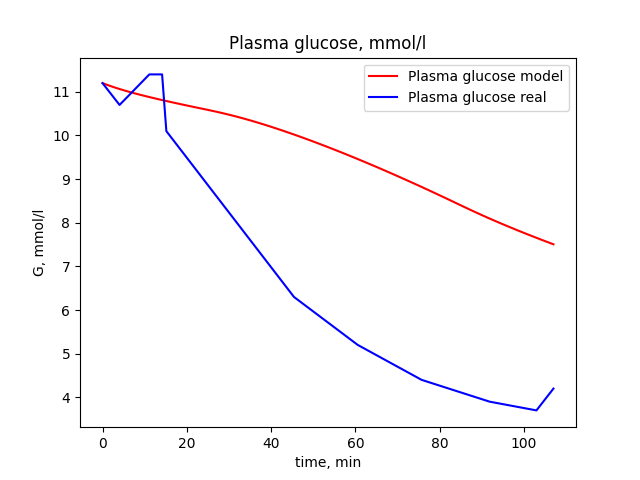
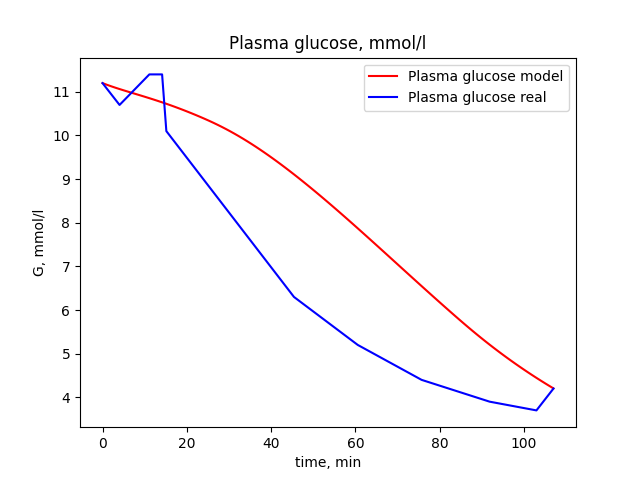
New results

diff --git a/functions.py b/functions.py
@@ -2,9 +2,12 @@
 # -*- coding: utf-8 -*-
 import os
 import numpy as np
+import math
 
 from coefficients import *
 from scipy.integrate import quad
+from sklearn.metrics import mean_absolute_error, mean_absolute_percentage_error
+
 import matplotlib.pyplot as plt
 
 '''Функции'''
@@ -78,9 +81,9 @@ def Qsto(t, Qsto1, Qsto2):
     return Qsto1 + Qsto2
 
 # Динамический параметр опустошения желудка
-def kempt(t, Qsto1, Qsto2, D, meal_time):
+def kempt(t, Qsto1, Qsto2, D, meal_time, alphas, betas):
     if D != 0 and t > meal_time:
-        return kmin + (kmax - kmin) / 2.0 * (tanh(alphas * (Qsto(t, Qsto1, Qsto2) - b * D)) - tanh(betas * (Qsto(t, Qsto1, Qsto2) - d * D)) + 2.0)
+        return kmin + (kmax - kmin) / 2.0 * (math.tanh(alphas * (Qsto(t, Qsto1, Qsto2) - b * D)) - math.tanh(betas * (Qsto(t, Qsto1, Qsto2) - d * D)) + 2.0)
     else:
         return kmin
 
@@ -131,6 +134,14 @@ def print_graphs(x, t, name ,real=None):
         real_data = np.array([])
         for val in real:
             real_data = np.append(real_data, float(val))
+
+
+        # calculate MSE
+        mse = mean_absolute_error(real_data / MG_DL_TO_MMOL_L_CONVENTION_FACTOR, Gres / MG_DL_TO_MMOL_L_CONVENTION_FACTOR)
+        print(f'Training {name}\nMSE: {math.sqrt(mse)}')
+
+        mape = mean_absolute_percentage_error(real_data / MG_DL_TO_MMOL_L_CONVENTION_FACTOR, Gres / MG_DL_TO_MMOL_L_CONVENTION_FACTOR)
+        print(f'MAPE: {mape}')
 
         plt.plot(t, Gres / MG_DL_TO_MMOL_L_CONVENTION_FACTOR, label='Plasma glucose model', color='r')
         plt.plot(t, real_data, label='Plasma glucose real', color='b')

diff --git a/model.py b/model.py
@@ -122,8 +122,8 @@ def simulate(
         '''Глюкоза в пищеварительном тракте'''
         # ВАЖНО: Если прием пищи мгновенный (по умолчанию), ingestion(t) всегда 0, а Qsto10 = D
         dQsto1dt = -kgri *  Qsto1 + ingestion(t)
-        dQsto2dt = -kempt(t, Qsto1, Qsto2, D, meal_time) * Qsto2 + kgri * Qsto1
-        dQgutdt = -kabs * Qgut + kempt(t, Qsto1, Qsto2, D, meal_time) * Qsto2        
+        dQsto2dt = -kempt(t, Qsto1, Qsto2, D, meal_time, alphas, betas) * Qsto2 + kgri * Qsto1
+        dQgutdt = -kabs * Qgut + kempt(t, Qsto1, Qsto2, D, meal_time, alphas, betas) * Qsto2        
         '''Инсулин в межклеточной жидкости'''
         dXdt = -p2U * X + p2U * (I(t, Ip) - Ib)  # was deleted - Ib
         '''Физическая активность'''

diff --git a/analytics/analytics.py b/analytics/analytics.py
@@ -130,17 +130,17 @@ CARB_INTAKE = [
     [0, 0], 
     [0, 0], 
     [0, 0], 
-    [0, 0], 
+    [48000, 75],  # [0, 0]
     [0, 0]
 ]
 # [dose, time]
 INSULIN_INTAKE = [
+    [250, 0],  #250
     [0, 0], 
     [0, 0], 
+    [200, 0],  # [0, 0]
     [0, 0], 
-    [0, 0], 
-    [0, 0], 
-    [0, 0], 
+    [0, 75],  # [0, 0] 
     [0, 0]
 ]
 
